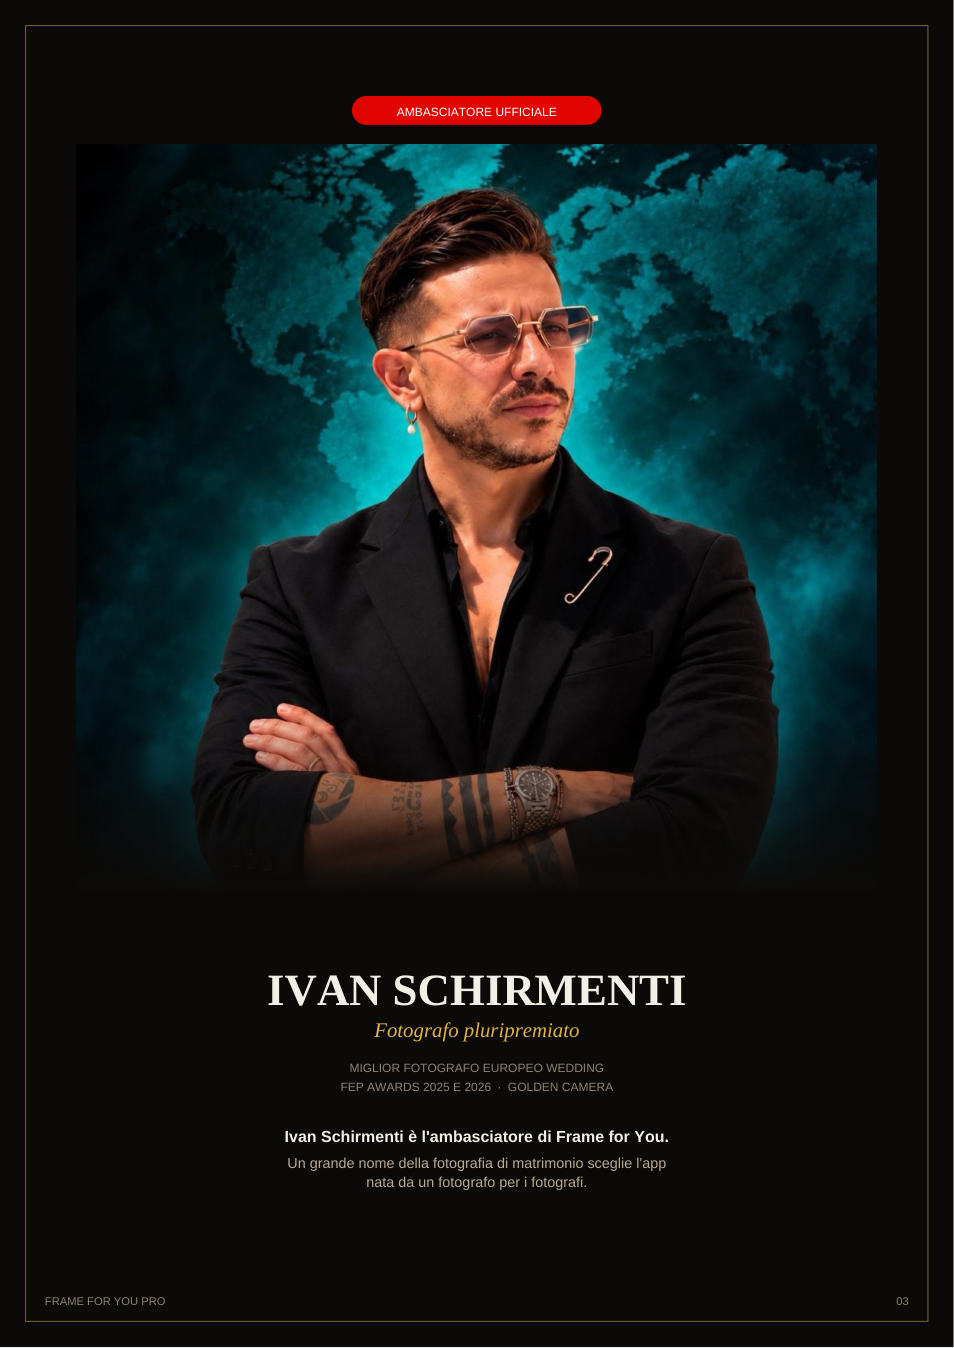
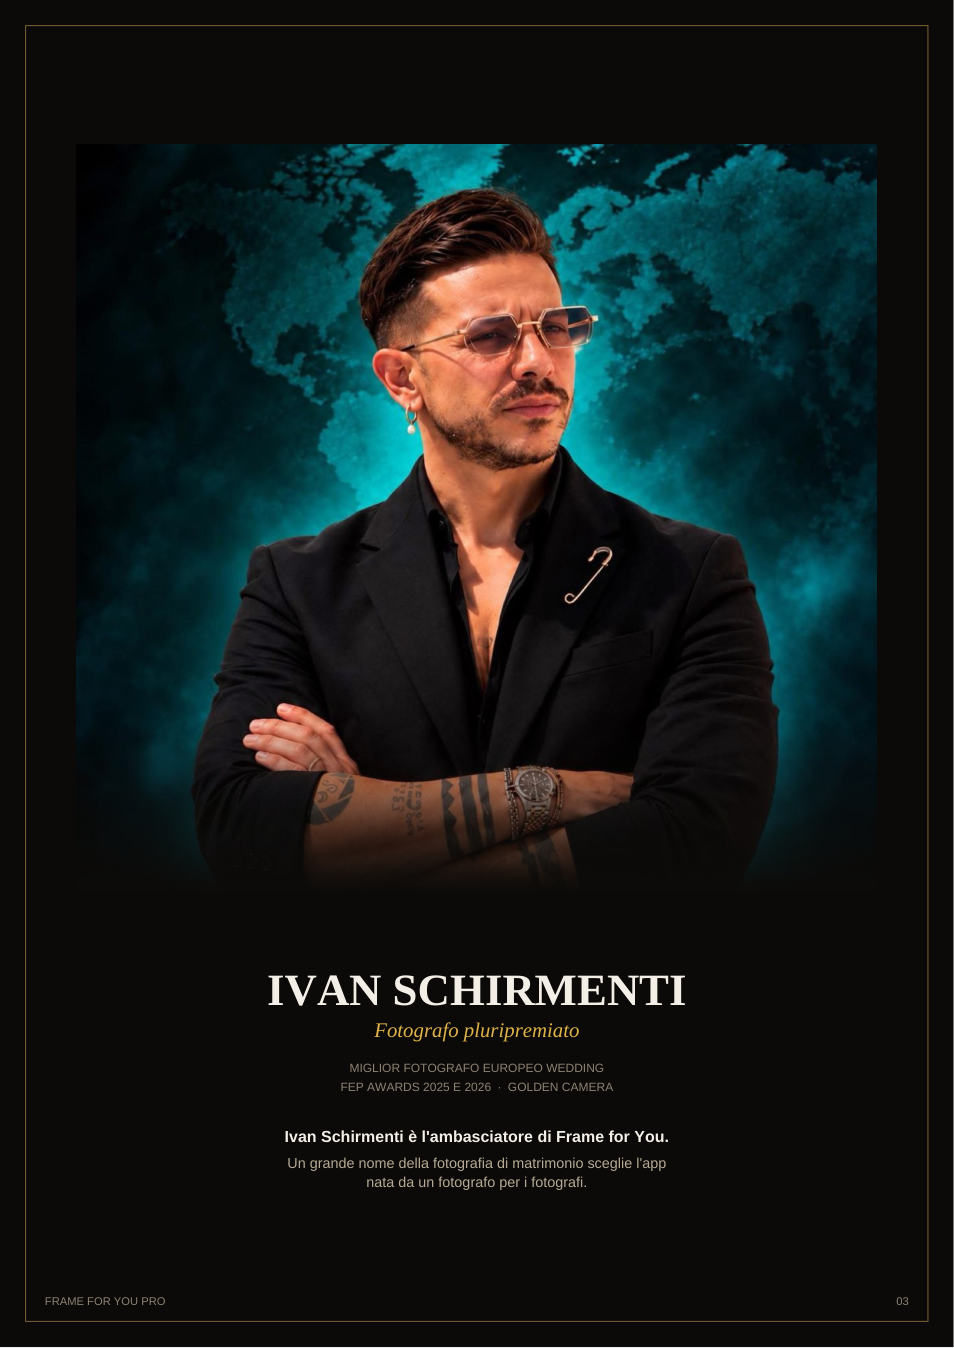
Brochure: tolta la fascia sulla testa di Ivan.

Changed region(s): [[0.3648, 0.0623, 0.6384, 0.0935]]

diff --git a/brochure.html b/brochure.html
@@ -1,1 +1,1 @@
-<!doctype html><html lang="it"><meta charset="utf-8"><meta name="viewport" content="width=device-width,initial-scale=1"><title>Frame for You — Brochure</title><style>body{margin:0;background:#0c0b09}main{max-width:820px;margin:0 auto;padding:12px}img{width:100%;display:block;margin:0 0 14px;border-radius:8px}a{display:block;text-align:center;color:#e0b44a;font:600 16px/1.4 sans-serif;margin:6px 0 16px}</style><main><a href="Frame-for-You-Brochure.pdf">Scarica il PDF</a><img src="broch/p01.jpg" alt="Pagina 1"><img src="broch/p02.jpg" alt="Pagina 2"><img src="broch/p03.jpg" alt="Pagina 3"><img src="broch/p04.jpg" alt="Pagina 4"><img src="broch/p05.jpg" alt="Pagina 5"></main>
+<!doctype html><html lang="it"><meta charset="utf-8"><meta name="viewport" content="width=device-width,initial-scale=1"><title>Frame for You — Brochure</title><style>body{margin:0;background:#0c0b09}main{max-width:820px;margin:0 auto;padding:12px}img{width:100%;display:block;margin:0 0 14px;border-radius:8px}a{display:block;text-align:center;color:#e0b44a;font:600 16px/1.4 sans-serif;margin:6px 0 16px}</style><main><a href="Frame-for-You-Brochure.pdf?v=2">Scarica il PDF</a><img src="broch/p01.jpg?v=2" alt="Pagina 1"><img src="broch/p02.jpg?v=2" alt="Pagina 2"><img src="broch/p03.jpg?v=2" alt="Pagina 3"><img src="broch/p04.jpg?v=2" alt="Pagina 4"><img src="broch/p05.jpg?v=2" alt="Pagina 5"></main>
